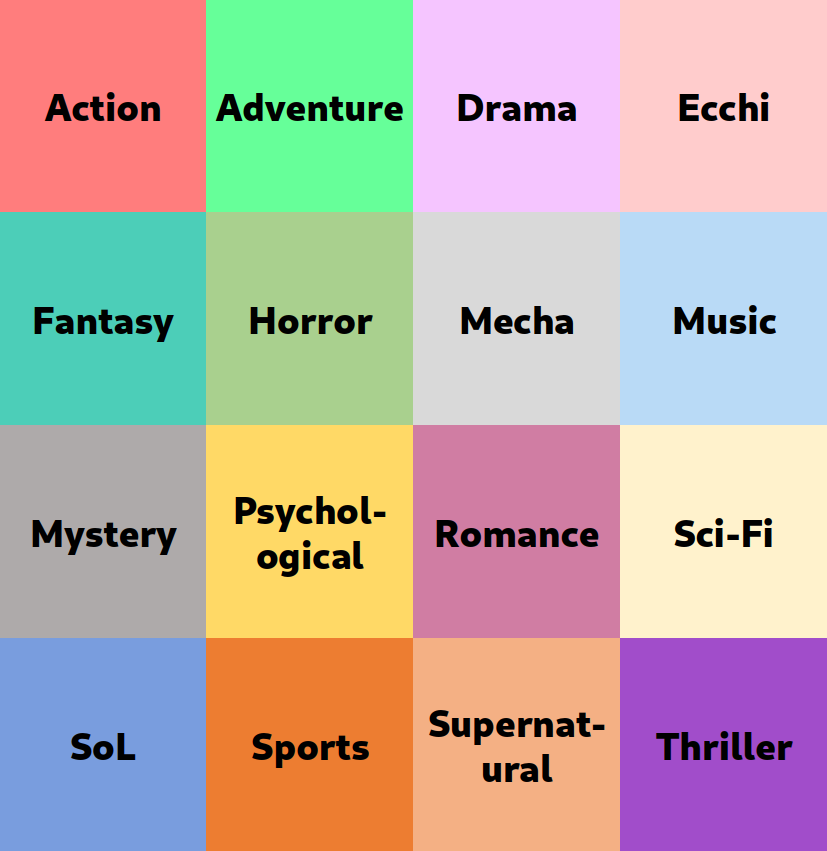
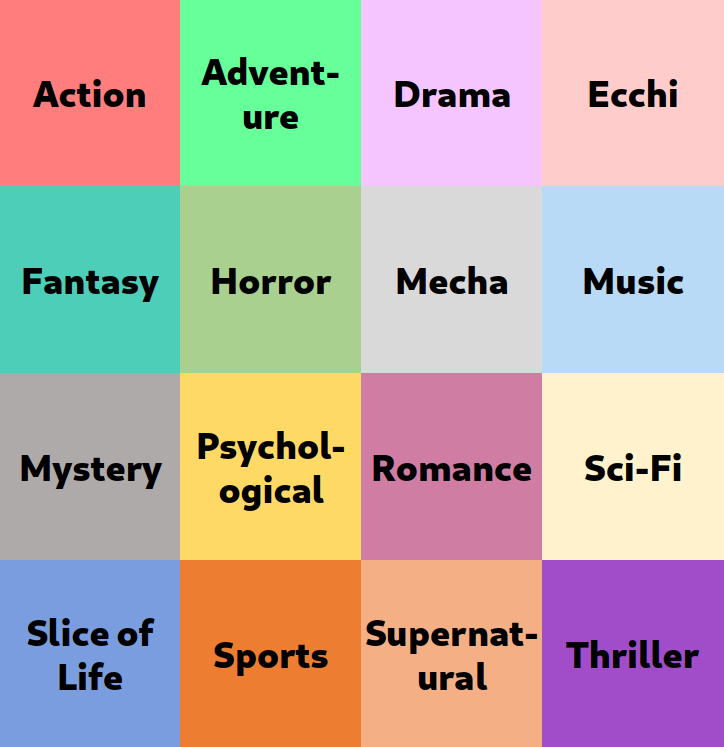
fix: enlarge zone image text

diff --git a/src/botdata.py b/src/botdata.py
@@ -18,7 +18,7 @@ assert "main.py" in listdir(parent), f"Invalid parent directory {parent}, ensure
 
 bot_id: int = 887530423826145310
 bot_avatar_url: str = "https://cdn.discordapp.com/attachments/895549688026124321/1103188621193924708/ursa_cm.png"
-train_zones_url: str = "https://i.imgur.com/pCFbQjL.png"
+train_zones_url: str = "https://i.imgur.com/CRgbw7R.png"
 date_format: str = "%Y/%m/%d %H:%M:%S"
 
 emoji: dict = {

diff --git a/src/trains.py b/src/trains.py
@@ -1487,7 +1487,7 @@ genre_colors: dict = {
     'Psychological': (255, 217, 102),
     'Romance': (208, 125, 163),
     'Sci-Fi': (255, 242, 204),
-    'SoL': (121, 157, 222),
+    'Slice of Life': (121, 157, 222),
     'Sports': (237, 125, 49),
     'Supernatural': (244, 176, 132),
     'Thriller': (161, 77, 202),
